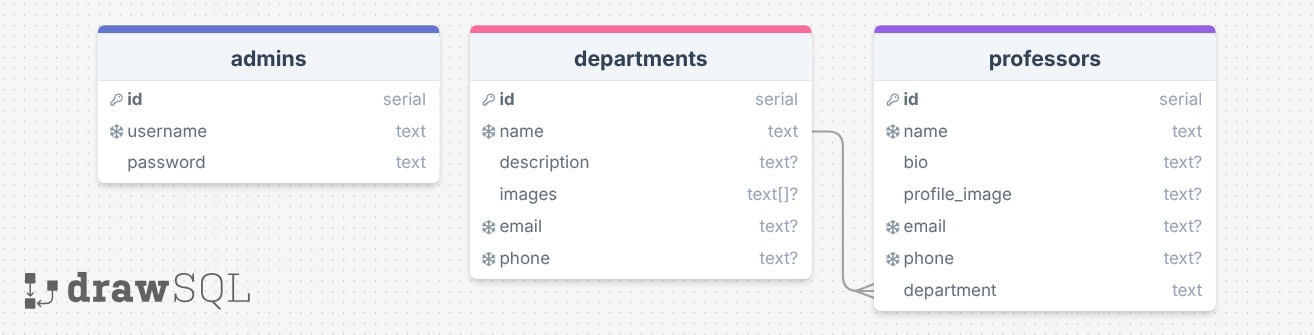
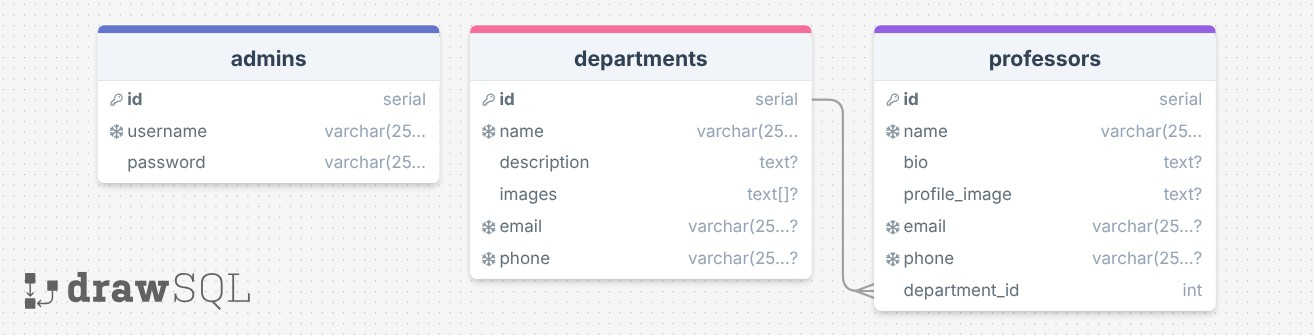
use varchar instead of text

diff --git a/README.md b/README.md
@@ -12,26 +12,26 @@ This backend allows users to see the departments and faculty of the university. 
 ```dbml
 table admins {
   id serial [pk]
-  username text [unique, not null]
-  password text [not null]
+  username varchar(255) [unique, not null]
+  password varchar(255) [not null]
 }
 
 table departments {
   id serial [pk]
-  name text [unique, not null]
+  name tvarchar(255)ext [unique, not null]
   description text
   images text[]
-  email text [unique]
-  phone text [unique]
+  email varchar(255) [unique]
+  phone varchar(255) [unique]
 }
 
 table professors {
   id serial [pk]
-  name text [unique, not null]
-  bio text
+  name varchar(255) [unique, not null]
+  bio varchar(255)
   profile_image text
-  email text [unique]
-  phone [unique]
+  email varchar(255) [unique]
+  phone varchar(255) [unique]
   department_id int [not null]
 }
 
